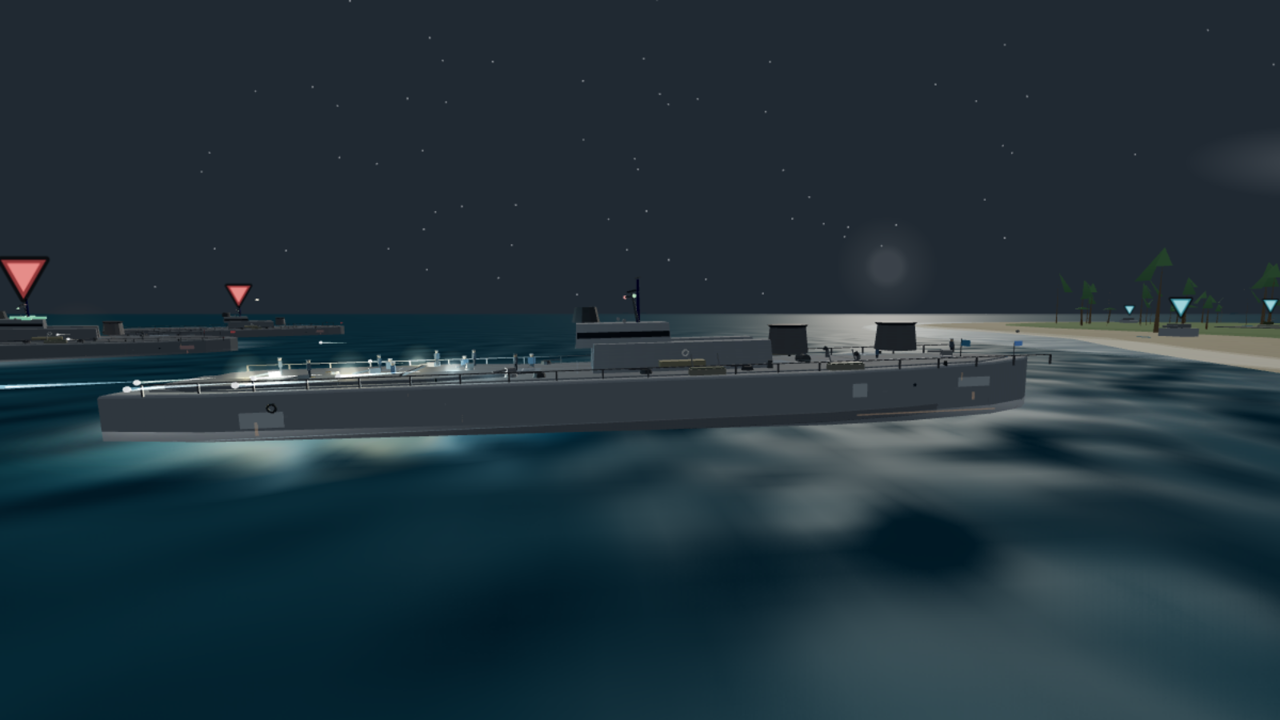
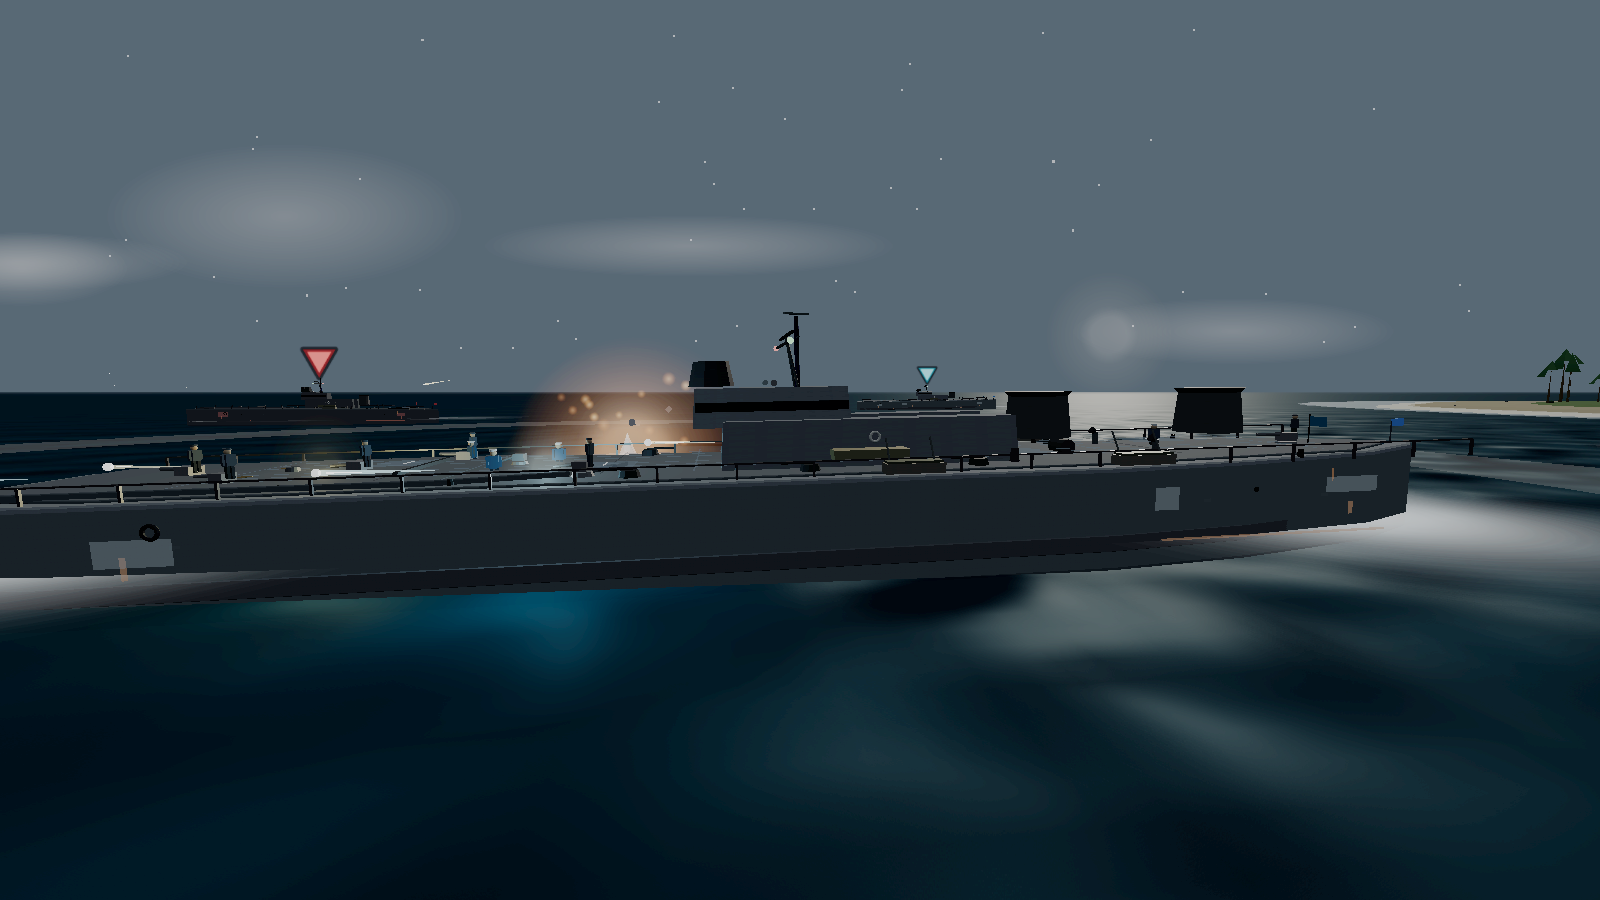
fix: the promo images were captured in the game's ugliest mode
Every screenshot on the itch page, and the GIF in the README, was taken
through a pipeline that never asked for a GPU. Plain chromium.launch()
starts chromium_headless_shell, which falls back to SwiftShader; the
game's own adaptive-quality governor then measures 38ms frames, disables
bloom, drops the pixel ratio to 0.75, and flashes "Performance mode:
render detail reduced" — which is burned into the shipped preview.gif.
Measured both ways: SwiftShader ends at gfxQuality=0 pixelRatio=0.75,
Metal at pixelRatio=1 with frameEMA 15ms and the governor never firing.

All three asset scripts now take the real GPU and hold the governor off.
Order matters and cost me a pass: setGfxQuality() announces itself with a
two-second "Graphics: Bloom" prompt, so the toast stub has to come first
or it lands in a screenshot. setGfxQuality also clamps to 0..1, so the 2 I
first wrote was a misleading way to say 1.

Regenerated everything. Mean luma tells the story on the 3D shots —
armory 54 → 84, night 57 → 72, broadside 108 → 134 — while the menu and
briefing screens, which have no bloom to gain, sit unchanged. The scenes
differ between runs (weather and time of day drift), so that lift is not
purely bloom, but the pipeline difference above is measured directly.

preview.gif is now cut from the trailer rig instead of the old hero video:
real 60fps GPU frames, and daylight only. The nuke shot was tempting but
half of it is night, and dark frames are mud in an autoplaying GIF.
[…]

diff --git a/tools/capture-hero-video.js b/tools/capture-hero-video.js
@@ -2,7 +2,13 @@
 const { chromium } = require('@playwright/test');
 const OUT = require('path').join(__dirname, '..', 'promo', 'assets', 'hero-video');
 (async () => {
-  const browser = await chromium.launch();
+  // Every promo asset here was being captured in the game's ugliest mode. Plain
+// chromium.launch() runs chromium_headless_shell, which has no GPU and falls back to
+// SwiftShader; the game's adaptive-quality governor then sees 30ms+ frames, disables
+// bloom, drops the pixel ratio to 0.75 and flashes "Performance mode: render detail
+// reduced" — which is burned into the shipped preview.gif. Take the GPU, then hold the
+// quality governor and the toasts off so a screenshot shows the game at its best.
+  const browser = await chromium.launch({ headless: true, channel: 'chromium' });
   const ctx = await browser.newContext({
     viewport: { width: 1600, height: 900 },
     recordVideo: { dir: OUT, size: { width: 1600, height: 900 } },
@@ -21,6 +27,13 @@ const OUT = require('path').join(__dirname, '..', 'promo', 'assets', 'hero-video
 
   await page.evaluate(() => {
     startGame('battleship'); skipBanner();
+    // Silence the toasts FIRST: setGfxQuality() announces itself with a "Graphics: Bloom"
+    // prompt that lives 2s, which is long enough to land in a screenshot.
+    window.flashPrompt = () => {};
+    window.updateAdaptiveQuality = () => {};       // or it drops bloom + resolution on us
+    if (typeof setGfxQuality === 'function') setGfxQuality(1);   // clamped 0..1; 1 = bloom on
+    if (typeof renderer !== 'undefined' && renderer) renderer.setPixelRatio(1);
+
     if (typeof skipTutorial === 'function') skipTutorial();
     money = 99999;
     for (const w of ['deckgun','deckgun','twin','bofors','oerlikon','aa']) { selectedWeapon = w; try { tryPlace(); } catch(e){} }

diff --git a/tools/capture-screenshots.js b/tools/capture-screenshots.js
@@ -37,7 +37,13 @@ async function compose(page, { forward, height, side, tod }) {
 
 (async () => {
   fs.mkdirSync(OUT, { recursive: true });
-  const browser = await chromium.launch();
+  // Every promo asset here was being captured in the game's ugliest mode. Plain
+// chromium.launch() runs chromium_headless_shell, which has no GPU and falls back to
+// SwiftShader; the game's adaptive-quality governor then sees 30ms+ frames, disables
+// bloom, drops the pixel ratio to 0.75 and flashes "Performance mode: render detail
+// reduced" — which is burned into the shipped preview.gif. Take the GPU, then hold the
+// quality governor and the toasts off so a screenshot shows the game at its best.
+  const browser = await chromium.launch({ headless: true, channel: 'chromium' });
   const page = await browser.newPage({ viewport: { width: 1600, height: 900 } });
   page.on('pageerror', e => console.log('PAGEERROR', String(e).slice(0, 160)));
 
@@ -65,6 +71,13 @@ async function compose(page, { forward, height, side, tod }) {
   // spawnEnemy() drops ships near the enemy harbour, which is too far to photograph.
   await page.evaluate(() => {
     skipBanner();
+    // Silence the toasts FIRST: setGfxQuality() announces itself with a "Graphics: Bloom"
+    // prompt that lives 2s, which is long enough to land in a screenshot.
+    window.flashPrompt = () => {};
+    window.updateAdaptiveQuality = () => {};       // or it drops bloom + resolution on us
+    if (typeof setGfxQuality === 'function') setGfxQuality(1);   // clamped 0..1; 1 = bloom on
+    if (typeof renderer !== 'undefined' && renderer) renderer.setPixelRatio(1);
+
     if (typeof skipTutorial === 'function') skipTutorial();
     money = 99999;
     for (const w of ['deckgun', 'deckgun', 'twin', 'bofors', 'oerlikon', 'aa']) {

diff --git a/tools/render-covers.js b/tools/render-covers.js
@@ -38,7 +38,13 @@ const card = (bg, w, h, titleSize, tagSize, badgeSize, tagline, showTag, showBad
 </div>`;
 
 (async () => {
-  const browser = await chromium.launch();
+  // Every promo asset here was being captured in the game's ugliest mode. Plain
+// chromium.launch() runs chromium_headless_shell, which has no GPU and falls back to
+// SwiftShader; the game's adaptive-quality governor then sees 30ms+ frames, disables
+// bloom, drops the pixel ratio to 0.75 and flashes "Performance mode: render detail
+// reduced" — which is burned into the shipped preview.gif. Take the GPU, then hold the
+// quality governor and the toasts off so a screenshot shows the game at its best.
+  const browser = await chromium.launch({ headless: true, channel: 'chromium' });
   const jobs = [
     { out: 'cover-itch-titled-630x500.png', src: '03-broadside.png', w: 630, h: 500, t: 46, g: 15, b: 11,
       tag: 'Command a battleship — then fly the planes,<br>drive the tanks, and storm the beach yourself.', showTag: true },
